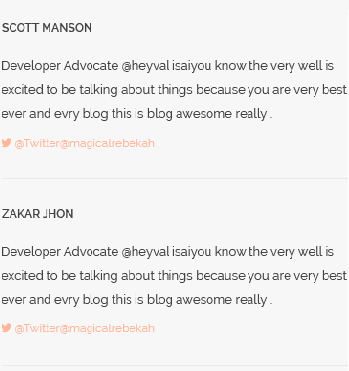
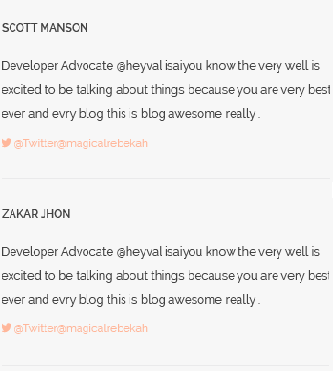
Not Responsive and some bugs

diff --git a/3.Design_Final_Assignment/layout.css b/3.Design_Final_Assignment/layout.css
@@ -262,7 +262,7 @@
 	left:-120;
 }
 .SUBSCRIBED{
-	width: 35%;
+	width: 26%;
 	position:relative;
 	margin-left: 50%;
 	top: -900;
